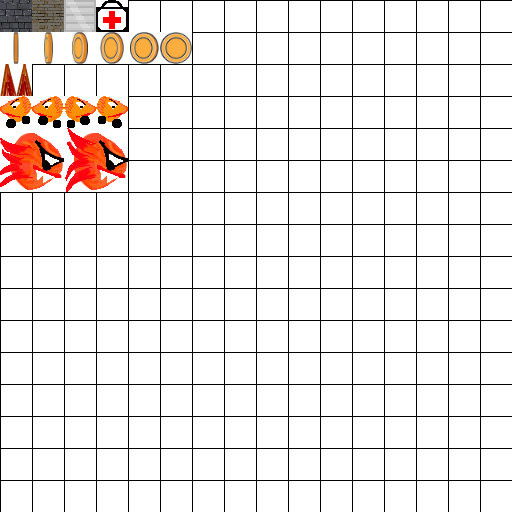
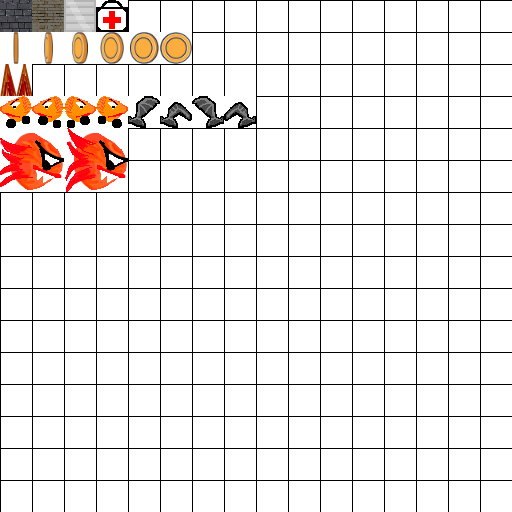
Added new enemies- bats

Changed region(s): [[0.25, 0.1875, 0.5, 0.25]]

diff --git a/src/main/Game.java b/src/main/Game.java
@@ -33,6 +33,7 @@ public class Game extends Canvas implements Runnable
 	private EnemiesHandler enemiesHandler;
 	private SmartWallHandler smartWallHandler;
 	private HealthPackHandler hpHandler;
+	private BatHandler batHandler;
 	private BufferedImage level1 = null, level2 = null, light = null, backgroundTile;
 	private Camera camera;
 	private Textures textures = new Textures();
@@ -66,8 +67,8 @@ public class Game extends Canvas implements Runnable
 		//player = new Player(55 * 32, 80 * 32);	// Pozicija igraca na poziciji pred Boss fight
 		//player = new Player(45 * 32, 60*32);	
 		
-		//player = new Player(2 * 32, 12 * 32); // Pozicija igraca za pocetak level2
-		player = new Player(56 * 32, 26 * 32); // Pozicija igraca pred lavirint u level2
+		player = new Player(2 * 32, 12 * 32); // Pozicija igraca za pocetak level2
+		//player = new Player(56 * 32, 26 * 32); // Pozicija igraca pred lavirint u level2
 		
 		camera = new Camera(0, 0);
 		blockHandler = new BlockHandler();
@@ -80,8 +81,9 @@ public class Game extends Canvas implements Runnable
 		enemiesHandler = new EnemiesHandler();
 		smartWallHandler = new SmartWallHandler();
 		hpHandler = new HealthPackHandler();
+		batHandler = new BatHandler();
 		collisionHandler = new CollisionHandler(player, boss, blockHandler, coinsHandler, bHandler, bossBHandler, 
-				spikeHandler, enemiesHandler, smartWallHandler, hpHandler);
+				spikeHandler, enemiesHandler, smartWallHandler, hpHandler, batHandler);
 
 		loader = new BufferedImageLoader();		
 		light = loader.loadImage("/playerLight.png");
@@ -145,6 +147,7 @@ public class Game extends Canvas implements Runnable
 			bossBHandler.tick();
 			enemiesHandler.tick();
 			hpHandler.tick();
+			batHandler.tick();
 		}	
 	}
 	
@@ -182,6 +185,7 @@ public class Game extends Canvas implements Runnable
 		player.render(g);
 		spikeHandler.render(g);
 		hpHandler.render(g);
+		batHandler.render(g);
 		
 		// Lamp effect
 		g.drawImage(light, (int)player.getX() - light.getWidth() / 2, (int)player.getY() - light.getHeight() / 2, null);
@@ -230,28 +234,23 @@ public class Game extends Canvas implements Runnable
 				blue = (pixel) & 0xff;
 				
 				if(red == 255 && green == 255 && blue == 255) 
-					blockHandler.blocks.add(new Block(i * tileSize, j * tileSize, textures));
-				
-				if(red == 180 && green == 180 && blue == 180)
-					rBlocksHandler.blocks.add(new Block(i * tileSize, j * tileSize, textures));
-					
-				if(red == 255 && green == 255 && blue == 0)
-					coinsHandler.coins.add(new Coin(i * tileSize, j * tileSize, textures));
-			
-				if(red == 255 && green == 0 && blue == 0)
-					spikeHandler.spikes.add(new Spike(i * tileSize, j * tileSize, textures));
-			
-				if(red == 255 && green == 0 && blue == 255)
-					enemiesHandler.enemies.add(new Enemy(i * tileSize, j * tileSize, 1, textures));
-				
-				if(red == 255 && green == 200 && blue == 255)
-					enemiesHandler.enemies.add(new Enemy(i * tileSize, j * tileSize, 2, textures));
-			
-				if(red == 0 && green == 255 && blue == 255)
+					blockHandler.blocks.add(new Block(i * tileSize, j * tileSize, textures));				
+				else if(red == 180 && green == 180 && blue == 180)
+					rBlocksHandler.blocks.add(new Block(i * tileSize, j * tileSize, textures));	
+				else if(red == 255 && green == 255 && blue == 0)
+					coinsHandler.coins.add(new Coin(i * tileSize, j * tileSize, textures));			
+				else if(red == 255 && green == 0 && blue == 0)
+					spikeHandler.spikes.add(new Spike(i * tileSize, j * tileSize, textures));			
+				else if(red == 255 && green == 0 && blue == 255)
+					enemiesHandler.enemies.add(new Enemy(i * tileSize, j * tileSize, 1, textures));				
+				else if(red == 255 && green == 200 && blue == 255)
+					enemiesHandler.enemies.add(new Enemy(i * tileSize, j * tileSize, 2, textures));			
+				else if(red == 0 && green == 255 && blue == 255)
 					smartWallHandler.smartWalls.add(new SmartWall(i * tileSize, j * tileSize, textures));
-				
-				if(red == 0 && green == 0 && blue == 255)
+				else if(red == 0 && green == 0 && blue == 255)
 					hpHandler.healthPack.add(new HealthPack(i * tileSize, j * tileSize, textures));
+				else if(red == 255 && green == 128 && blue == 0)
+					batHandler.bats.add(new Bat(i * tileSize, j * tileSize, 1, textures));
 			}
 		}
 	}

diff --git a/src/handlers/CollisionHandler.java b/src/handlers/CollisionHandler.java
@@ -22,6 +22,7 @@ public class CollisionHandler
 	private EnemiesHandler eh;
 	private SmartWallHandler swh;
 	private HealthPackHandler hph;
+	private BatHandler batH;
 	
 	// HashMap koji sluzi za skladistenje SFX-a
 	private HashMap<String, AudioPlayer> sfx;
@@ -32,7 +33,8 @@ public class CollisionHandler
 	
 	// Konstruktor
 	public CollisionHandler(Player p, Boss boss, BlockHandler bl, CoinsHandler cl, BulletHandler bhl,
-			 BossBulletsHandler bbh, SpikeHandler sh, EnemiesHandler eh, SmartWallHandler swh, HealthPackHandler hph)
+			 BossBulletsHandler bbh, SpikeHandler sh, EnemiesHandler eh, SmartWallHandler swh, HealthPackHandler hph,
+			 BatHandler batH)
 	{
 		this.p = p;
 		this.boss = boss;
@@ -44,6 +46,7 @@ public class CollisionHandler
 		this.eh = eh;
 		this.swh = swh;		
 		this.hph = hph;
+		this.batH = batH;
 		
 		initSFX();
 	}
@@ -110,6 +113,26 @@ public class CollisionHandler
 					eh.enemies.get(j).setVelX(eh.enemies.get(j).getVelX() * (-1));
 			}	
 			
+			// Detekcija dodira izmedju blokova i Bat objekata
+			for(int j = 0; j < batH.bats.size(); j++)
+			{	
+				// Ukoliko dodje do dodira sa blokom menja se smer kretanja Enemy objekta
+				if(batH.bats.get(j).getBoundsRight().intersects(block.getBounds()))
+					batH.bats.get(j).setVelX(batH.bats.get(j).getVelX() * (-1));
+				else if(batH.bats.get(j).getBoundsLeft().intersects(block.getBounds()))
+					batH.bats.get(j).setVelX(batH.bats.get(j).getVelX() * (-1));
+				
+				if(batH.bats.get(j).getBounds().intersects(p.getBounds()))
+				{
+					// TODO: Player se otruje i samnjuje mu HP za 1 svakih 20 tickova i mora da nadje protivotrov
+					
+					sfx.get("Hurt").play(-10.0f);
+					p.setHealth(p.getHealth() - batH.bats.get(j).getDamage());
+					p.setVelY(-15);
+					p.setJumping(true);
+				}
+			}	
+			
 			// Detekcija dodira metkova koje ispaljuje Boss sa blokovima i igracem
 			for(int j = 0; j < bbh.bullets.size(); j++)
 			{
@@ -125,7 +148,7 @@ public class CollisionHandler
 				{
 					bbh.bullets.remove(j);
 					p.setHealth(p.getHealth() - boss.getDamage());
-				}
+				}				
 			}
 		}
 		
@@ -178,6 +201,17 @@ public class CollisionHandler
 					eh.enemies.get(i).setHealth(eh.enemies.get(i).getHealth() - p.getDamage());
 					System.out.println("Enemy health: " + eh.enemies.get(i).getHealth());
 					bhl.bullets.remove(j);
+					continue;
+				}
+				
+				for(int k = 0; k < batH.bats.size(); k++)
+				{
+					if(batH.bats.get(k).getBounds().intersects(bhl.bullets.get(j).getBounds()))
+					{
+						System.out.println("Enemy health: " + batH.bats.get(k).getHealth());
+						batH.bats.get(k).setHealth(batH.bats.get(k).getHealth() - p.getDamage());
+						bhl.bullets.remove(j);
+					}
 				}
 			}
 		}

diff --git a/src/objects/Bat.java b/src/objects/Bat.java
@@ -1,0 +1,104 @@
+package objects;
+
+import java.awt.Graphics;
+import java.awt.Rectangle;
+
+import graphics.Animation;
+import graphics.Textures;
+
+// Klasa Enemy predstavlja neprijatelja kojeg igrac moze da ubije
+public class Bat 
+{
+	// Polja koja opisuju objekat tipa Enemy
+	private float x, y;
+	private float velX; // velX-brzina kretanja po X osi
+	private int size, damage, health;;
+	private Textures t;
+	private Animation animWalkLeft, animWalkRight;
+	
+	// Konstruktor
+	public Bat(float x, float y, int direction, Textures t)
+	{
+		this.x = x;
+		this.y = y;
+		this.t = t;
+		
+		// Postoji 2 vrste neprijatelja-oni koji se krecu u levo i u desno
+		// Na osnovu direction parametra se postavlja njihov smer kretanja
+		if(direction == 1)
+			velX = 1.5f;
+		else if(direction == 2)
+			velX = -1.5f;
+		else
+			velX = 0;
+		
+		size = 32;
+		damage = 20;
+		health = 250;
+		
+		// Ubacivanje slika koje se koriste za animaciju i smenjuju se brzinom 4
+		// Postoje 2 animacije-za kretanje u levo i u desno
+		animWalkLeft = new Animation(4, t.batTiles[0], t.batTiles[1]);
+		animWalkRight = new Animation(4, t.batTiles[2], t.batTiles[3]);
+	}
+	
+	public void tick()
+	{
+		x += velX;
+				
+		animWalkLeft.runAnimation();
+		animWalkRight.runAnimation();
+	}
+	
+	public void render(Graphics g)
+	{
+		// U zavisnosti od smera kretanja izvrsava se odredjena animacija
+		if(velX < 0)
+			animWalkLeft.drawAnimation(g, (int)x, (int)y);
+		else if(velX > 0)
+			animWalkRight.drawAnimation(g, (int)x, (int)y);
+	}
+	
+	// Metode koje vracaju kvadrat koji predstavlja okvir i sluzi za detekciju dodira sa drugim objektima
+	public Rectangle getBounds() // Vraca pun okvir
+	{
+		return new Rectangle((int)x, (int)y, size, size);
+	}
+	
+	public Rectangle getBoundsLeft() // Vraca okvir koji predstavlja levu stranu 
+	{
+		return new Rectangle((int)x, (int)y, 10, 10);
+	}
+	
+	public Rectangle getBoundsRight() // Vraca okvir koji predstavlja desnu stranu
+	{
+		return new Rectangle((int)x + size - 10, (int)y, 10, 10);
+	}
+	
+	// Get metode
+	public int getHealth()
+	{
+		return health;
+	}
+	
+	public float getVelX()
+	{
+		return velX;
+	}
+	
+	public int getDamage()
+	{
+		return damage;
+	}
+	
+	// Set metode
+	public void setVelX(float velX)
+	{
+		this.velX = velX;
+	}
+	
+	public void setHealth(int health)
+	{
+		this.health = health;
+	}
+}

diff --git a/src/graphics/Textures.java b/src/graphics/Textures.java
@@ -13,6 +13,7 @@ public class Textures
 	public BufferedImage[] coinTiles = new BufferedImage[6];	// Niz textura Coins-a
 	public BufferedImage[] enemyTiles = new BufferedImage[4];	// Niz textura Enemy-a
 	public BufferedImage[] bossTiles = new BufferedImage[2];	// Niz textura Boss-a
+	public BufferedImage[] batTiles = new BufferedImage[4];		// Niz tekstura Bat-a
 	public BufferedImage spikes = null;							// Textura za Spike
 	public BufferedImage healthPack = null;						// Textura za HealthPack
 	
@@ -53,6 +54,11 @@ public class Textures
 		enemyTiles[1] = blockSheet.grabImage(2, 4, 32, 32);	// velX < 0
 		enemyTiles[2] = blockSheet.grabImage(3, 4, 32, 32); // velX > 0
 		enemyTiles[3] = blockSheet.grabImage(4, 4, 32, 32); // velX > 0
+		
+		batTiles[0] = blockSheet.grabImage(5, 4, 32, 32); // velX < 0
+		batTiles[1] = blockSheet.grabImage(6, 4, 32, 32); 
+		batTiles[2] = blockSheet.grabImage(7, 4, 32, 32); // velX > 0
+		batTiles[3] = blockSheet.grabImage(8, 4, 32, 32); 
 		
 		bossTiles[0] = blockSheet.grabImage(1, 3, 64, 64);
 		bossTiles[1] = blockSheet.grabImage(2, 3, 64, 64);

diff --git a/src/handlers/BatHandler.java b/src/handlers/BatHandler.java
@@ -1,0 +1,28 @@
+package handlers;
+
+import java.awt.Graphics;
+import java.util.LinkedList;
+
+import objects.Bat;
+
+public class BatHandler 
+{
+	public LinkedList<Bat> bats = new LinkedList<Bat>();
+	
+	public void tick()
+	{
+		for(int i = 0; i < bats.size(); i++)
+		{
+			bats.get(i).tick();
+			
+			if(bats.get(i).getHealth() <= 0)
+				bats.remove(i);
+		}
+	}
+	
+	public void render(Graphics g)
+	{
+		for(int i = 0; i < bats.size(); i++)
+			bats.get(i).render(g);
+	}
+}
